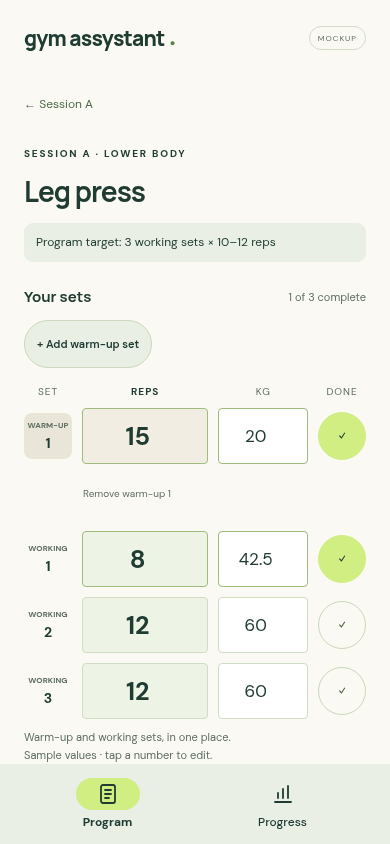
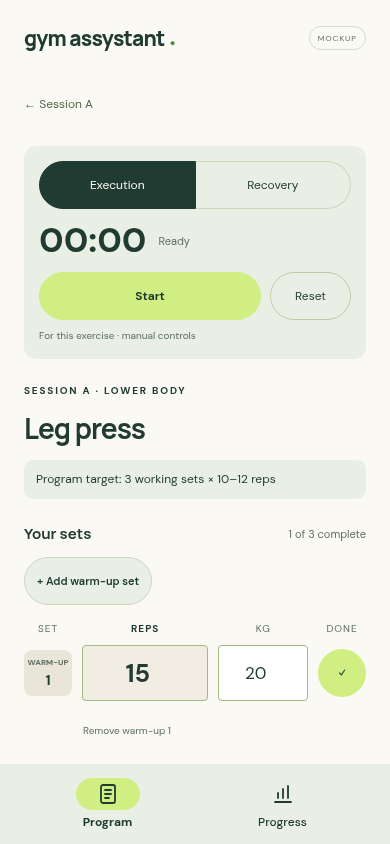
Move exercise timer to the top of the mockup

diff --git a/mockup/index.html b/mockup/index.html
@@ -7,11 +7,13 @@
 <div class="screen-area">
 <section id="program" data-view data-req="GYM-008"><p class="eyebrow">YOUR TRAINING PROGRAM</p><h2>Ready when you are.</h2><div class="session-banner"><span class="eyebrow">SAMPLE PROGRAM</span><h3>Full body<br>foundations</h3><p>3 session templates · 3 sets per exercise</p><span class="banner-art" aria-hidden="true">↗</span></div><div class="section-heading"><h3>Your sessions</h3><span>Choose a session</span></div><div id="sessionList"></div><p class="quiet-note">Your program defines the sessions.<br>Each session gives you the sets and rep targets.</p></section>
 <section id="session" data-view hidden data-req="GYM-001 GYM-008"><button class="back" id="backProgram">← Training program</button><p class="eyebrow">FULL BODY FOUNDATIONS</p><h2 id="sessionName"></h2><p class="muted" id="sessionFocus"></p><div class="section-heading"><h3>Exercises</h3><span id="sessionCount"></span></div><div id="exerciseList"></div><p class="quiet-note">Targets come from the program.<br>Log the reps and weight you actually perform.</p></section>
-<section id="exercise" data-view hidden data-req="GYM-001 GYM-009"><button class="back" id="back">← Session</button><p class="eyebrow" id="exerciseCategory"></p><h2 id="exerciseName"></h2><p class="prescription" id="prescription" data-req="GYM-008"></p>
+<section id="exercise" data-view hidden data-req="GYM-001 GYM-009"><button class="back" id="back">← Session</button>
+<div class="timer-panel" data-req="GYM-012"><div class="timer-tabs" role="group" aria-label="Timer type"><button id="executionMode" aria-pressed="true">Execution</button><button id="recoveryMode" aria-pressed="false">Recovery</button></div><div class="timer-display"><output id="timerValue" aria-label="Execution elapsed time" aria-live="off">00:00</output><span id="timerStatus" role="status">Ready</span></div><div id="recoverySettings" hidden><label for="recoverySeconds">Recovery duration (seconds)</label><input id="recoverySeconds" type="number" min="1" max="3600" step="1" value="90" required></div><div class="timer-actions"><button id="timerToggle">Start</button><button id="timerReset">Reset</button></div><p class="field-help" id="timerContext">For this exercise · manual controls</p></div>
+<p class="eyebrow" id="exerciseCategory"></p><h2 id="exerciseName"></h2><p class="prescription" id="prescription" data-req="GYM-008"></p>
 <div class="section-heading" data-req="GYM-004 GYM-005 GYM-014"><h3>Your sets</h3><span id="setCount" aria-live="polite"></span></div>
 <div class="set-toolbar" data-req="GYM-014"><button id="addWarmup" class="small-button">+ Add warm-up set</button></div>
 <div class="set-labels" data-req="GYM-004 GYM-014"><span>SET</span><span>REPS</span><span>KG</span><span>DONE</span></div><div id="sets" data-req="GYM-004 GYM-005 GYM-014"></div><p class="field-help">Warm-up and working sets, in one place.<br>Sample values · tap a number to edit.</p>
-<div class="timer-panel" data-req="GYM-012"><div class="timer-tabs" role="group" aria-label="Timer type"><button id="executionMode" aria-pressed="true">Execution</button><button id="recoveryMode" aria-pressed="false">Recovery</button></div><div class="timer-display"><output id="timerValue" aria-label="Execution elapsed time" aria-live="off">00:00</output><span id="timerStatus" role="status">Ready</span></div><div id="recoverySettings" hidden><label for="recoverySeconds">Recovery duration (seconds)</label><input id="recoverySeconds" type="number" min="1" max="3600" step="1" value="90" required></div><div class="timer-actions"><button id="timerToggle">Start</button><button id="timerReset">Reset</button></div><p class="field-help" id="timerContext">For this exercise · manual controls</p></div>
+
 <label class="section-heading" for="seatInput" data-req="GYM-003"><strong>Machine setup</strong><span>Seat & position</span></label><input id="seatInput" data-req="GYM-003" class="seat-input" type="text" placeholder="e.g. Seat 4, backrest 2" maxlength="250">
 <button id="watchVideo" class="video-link" data-req="GYM-002">▷ <span>Check machine & movement</span><span aria-hidden="true">↗</span></button></section>
 <section id="progress" data-view hidden data-req="GYM-010"><p class="eyebrow">YOUR TRAINING, OVER TIME</p><h2>See your progress.</h2><p class="muted">Compare the same exercise and machine.</p><div class="sample-notice">Fictional history · 14 Sep–5 Oct 2026<br><span>Current session edits are not included.</span></div><label class="select-label" for="progressExercise">Exercise</label><select id="progressExercise"></select><div class="metric-tabs" role="group" aria-label="Progress metric"><button data-metric="reps" aria-pressed="true">Reps</button><button data-metric="weight" aria-pressed="false">Weight</button><button data-metric="volume" aria-pressed="false">Volume</button></div><div class="chart-card"><p class="eyebrow" id="metricTitle"></p><div class="metric-head"><strong id="metricValue"></strong><span id="metricUnit"></span></div><p class="field-help" id="metricSubtitle"></p><div id="chart" class="chart" role="img"></div><p class="chart-baseline">Bars start at zero · dates are session dates</p></div><div class="stat-row"><span>Working sets in this period</span><strong id="workingSets"></strong></div><p id="comparisonContext" class="field-help"></p><p id="metricExplanation" class="quiet-note"></p></section>

diff --git a/mockup/style.css b/mockup/style.css
@@ -85,8 +85,8 @@ footer { font-size: 10px; text-align: center; color: var(--muted); margin-top: 3
 .set-toolbar { margin-bottom: 17px; }
 .small-button { font-size: 11px; font-weight: 600; border: 1px solid #cbd8bd; border-radius: var(--shape-full); background: var(--sage); padding: 9px 12px; min-height: 48px; }
 .remove-warmup { font-size: 10px; color: var(--muted); background: none; border: 0; min-height: 48px; padding: 3px; margin: -5px 0 4px 56px; }
-/* GYM-012: timing supports the set log without competing with reps. */
-.timer-panel { background: var(--sage); border-radius: var(--shape-medium); padding: 15px; margin: 24px 0; }
+/* GYM-009, GYM-012: timer controls sit at the top of the exercise screen. */
+.timer-panel { background: var(--sage); border-radius: var(--shape-medium); padding: 15px; margin: 0 0 24px; }
 .timer-tabs, .metric-tabs { display: flex; gap: 0; }
 .timer-tabs button, .metric-tabs button { flex: 1; background: transparent; border: 1px solid #cbd8bd; border-radius: 0; min-height: 48px; padding: 8px 5px; font-size: 12px; }
 .timer-tabs button:first-child, .metric-tabs button:first-child { border-radius: var(--shape-full) 0 0 var(--shape-full); }

diff --git a/docs/spec.md b/docs/spec.md
@@ -18,7 +18,7 @@ Follow a training program made of multiple training sessions. During each sessio
 | GYM-006 | Explore a responsive dummy mockup. | Narrow phone and desktop layouts, visible prototype disclosure, keyboard access and focus restoration. Edits and timers are in memory and reset on reload; statistics are labeled fictional history. |
 | GYM-007 | Name the app gym assystant. | Browser title and visible branding use this exact spelling. |
 | GYM-008 | Center the app on a training program containing sessions. | Home shows one named sample program and three distinct session templates. Each defines ordered exercises, number of sets, and target rep ranges. Selecting a session shows those prescriptions separately from actual logged sets. Program and Progress are persistent bottom navigation destinations. No program editor is implied yet. |
-| GYM-009 | Prioritize performance logging. | Exercise screen order: exercise and prescribed target, one combined warm-up/working-set list with reps/weight controls, execution/recovery timers, machine setup, small video button. Set controls are visible before video access at mobile width. |
+| GYM-009 | Prioritize performance logging. | Exercise screen order: back navigation, execution/recovery timers at the top, exercise and prescribed target, one combined warm-up/working-set list with reps/weight controls, machine setup, small video button. Set controls are visible before video access at mobile width. |
 | GYM-010 | Show training performance statistics. | A Progress view lets the user select an exercise and metric. Show dated history for best reps at a fixed weight, heaviest weight at exactly 10 reps, and volume load; also show completed working-set count for the displayed period. Values are computed from explicit fictional completed logs, not hardcoded chart labels. No comparable data means a gap, not zero. Details and comparison rules appear below. |
 | GYM-011 | Research progression metrics before finalizing analytics. | A linked literature brief distinguishes outcomes, workload, and consistency; cites original research and evidence syntheses; records limitations, formulas, and proposed versus included metrics. Research recommendations do not automatically authorize features. |
 | GYM-012 | Time execution and recovery separately. | Execution counts up; recovery counts down from a user-editable whole number of seconds (1–3600; default 90). Each has start/resume, pause, and reset. Recovery stops at zero and announces completion. Timers use elapsed clock time, retain independent state when switching modes/views, and belong to the selected exercise occurrence. Reload resets them. No automatic set completion or automatic transition. |

diff --git a/docs/traceability.md b/docs/traceability.md
@@ -12,7 +12,7 @@ Revision 2. All Android delivery is **not started**. “Covered” below means t
 | GYM-006 | `index.html`: shell/disclosures/dialog; `style.css`; `app.js`: `showView` | Browser: 320/390/430px, focus/navigation, reload reset, no page errors | Covered |
 | GYM-007 | `index.html`: browser title, wordmarks | Browser: title and visible branding | Covered |
 | GYM-008 | `data.js`: program/session/prescription; `app.js`: `renderProgram`, session selection; `index.html`: program/bottom navigation | Browser: three session templates, distinct ordering and rep targets | Covered; editing deferred |
-| GYM-009 | `index.html`: exercise order; CSS: set widths/font sizes | Browser: reps first, set log before secondary video; screenshot review | Covered |
+| GYM-009 | `index.html`: exercise order; CSS: set widths/font sizes | Browser: reps first, set log before secondary video; screenshot review confirms timer at the top | Covered |
 | GYM-010 | `metrics.js`: `series`, `countSets`; `data.js`: historical records/context; `app.js`: `renderProgress`; `index.html`: progress | Logic: exact expected metrics, comparison filters, gaps, warm-up exclusion; browser: selectors/current edits excluded | Fictional historical statistics covered; real persistence deferred |
 | GYM-011 | [progression-research.md](progression-research.md) | Literature review: eight original studies/reviews with limitations and proposed/included metrics | Research delivered |
 | GYM-012 | `timers.js`: timer state/actions; `app.js`: `renderTimer`, interval/actions; `index.html`: timer panel | Logic: pause/resume/reset, expiry/background catch-up, independence, bounds; browser: both timer modes/completion | Covered; native background/alerts deferred |
